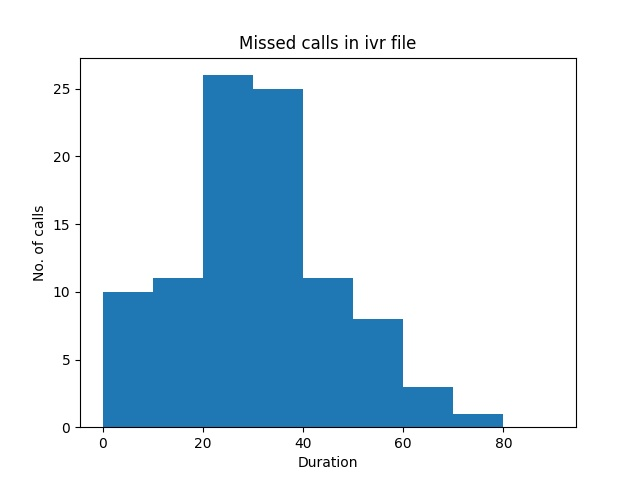
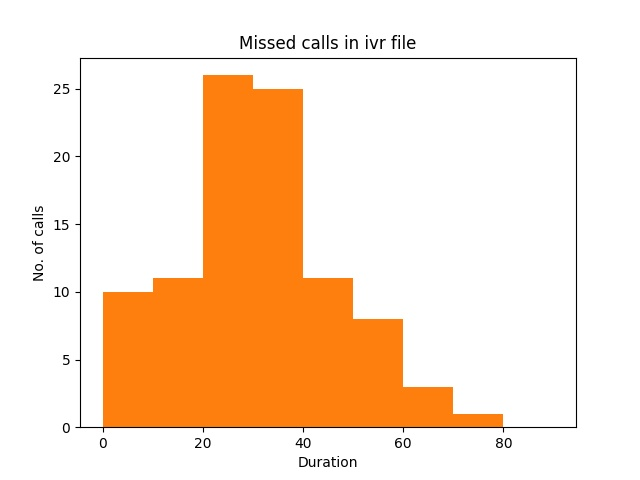
Upgrade Django 3.1 > 3.2

Changed region(s): [[0.1562, 0.1562, 0.8125, 0.9062]]

diff --git a/CMS/CMS/settings.py b/CMS/CMS/settings.py
@@ -37,7 +37,7 @@ INSTALLED_APPS = [
     'django.contrib.sessions',
     'django.contrib.messages',
     'django.contrib.staticfiles',
-    'calls',
+    'calls.apps.CallsConfig',
 ]
 
 MIDDLEWARE = [

diff --git a/CMS/calls/apps.py b/CMS/calls/apps.py
@@ -1,4 +1,4 @@
 from django.apps import AppConfig
 
-class TestedConfig(AppConfig):
-    name = 'tested'
+class CallsConfig(AppConfig):
+    name = 'calls'

diff --git a/CMS/calls/python_scripts/analytics.py b/CMS/calls/python_scripts/analytics.py
@@ -1,4 +1,6 @@
 import csv
+import matplotlib
+matplotlib.use('Agg')
 import matplotlib.pyplot as plt
 import numpy as np
 from django.conf import settings
